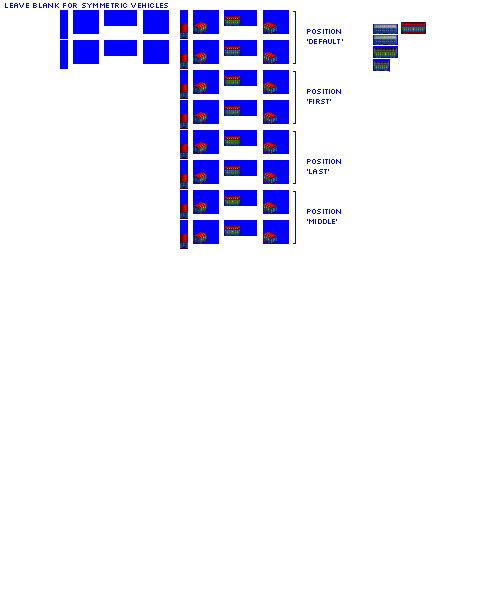
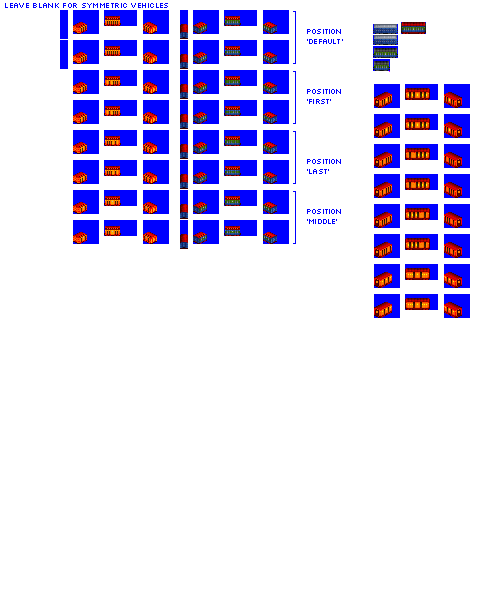
Change: sprites complete for NG gen 1A pax car and mail car

diff --git a/src/vehicles/mail_cars.py b/src/vehicles/mail_cars.py
@@ -7,7 +7,8 @@ def main():
                              base_numeric_id=950,
                              gen=1,
                              subtype='A',
-                             base_track_type='NG')
+                             base_track_type='NG',
+                             sprites_complete=True)
 
     consist.add_unit(type=PaxMailCar,
                      capacity=12,

diff --git a/src/vehicles/passenger_cars.py b/src/vehicles/passenger_cars.py
@@ -12,7 +12,8 @@ def main():
     consist.add_unit(type=PaxMailCar,
                      capacity=25,
                      vehicle_length=4,
-                     chassis='4_axle_ng_16px')
+                     chassis='4_axle_ng_16px',
+                     sprites_complete=True)
 
     #--------------- pony ----------------------------------------------------------------------
 
